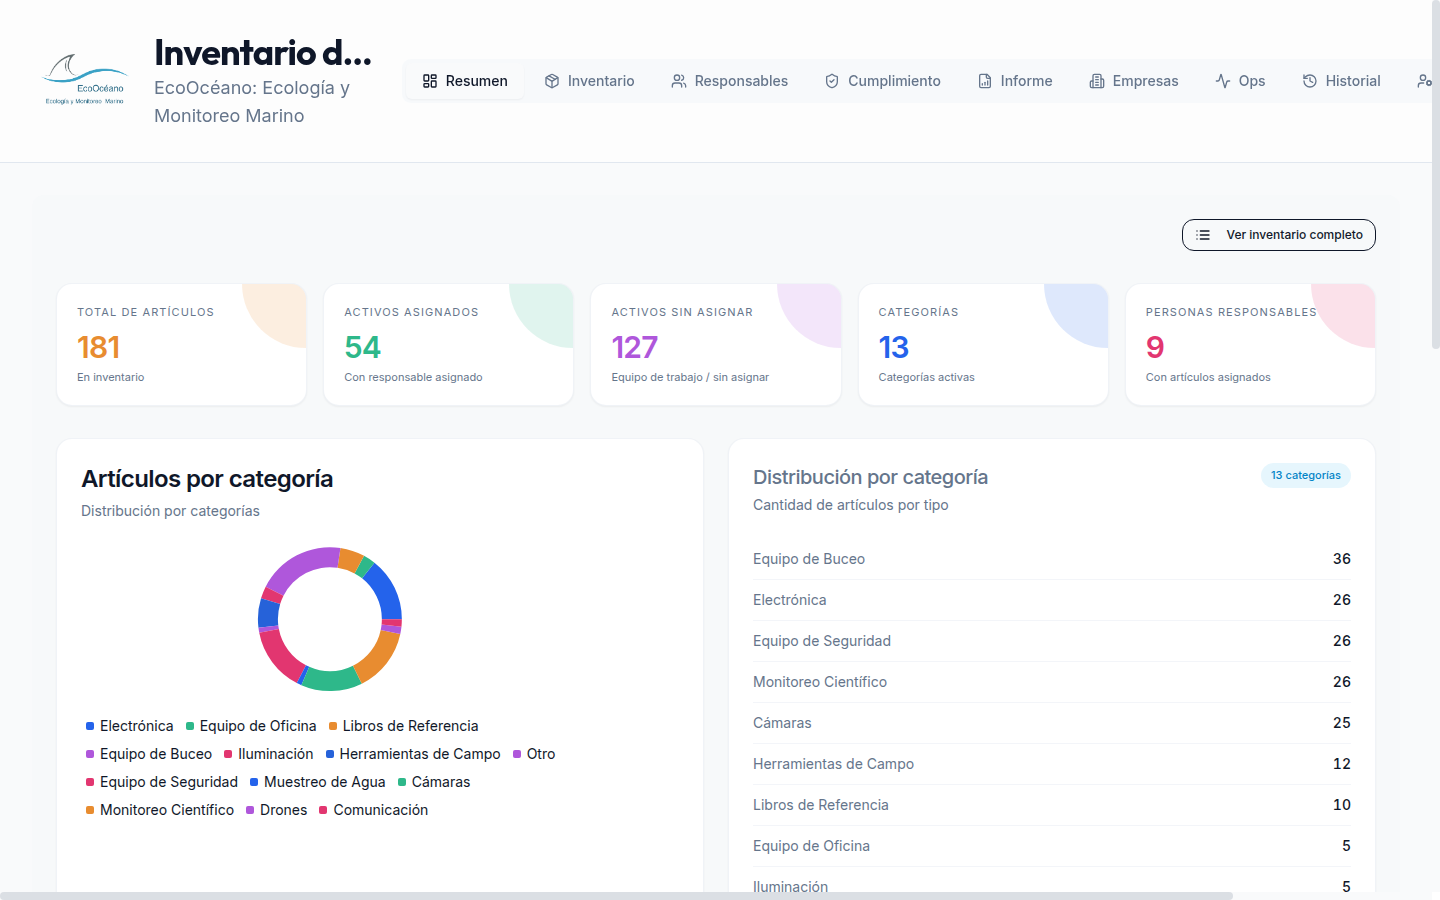
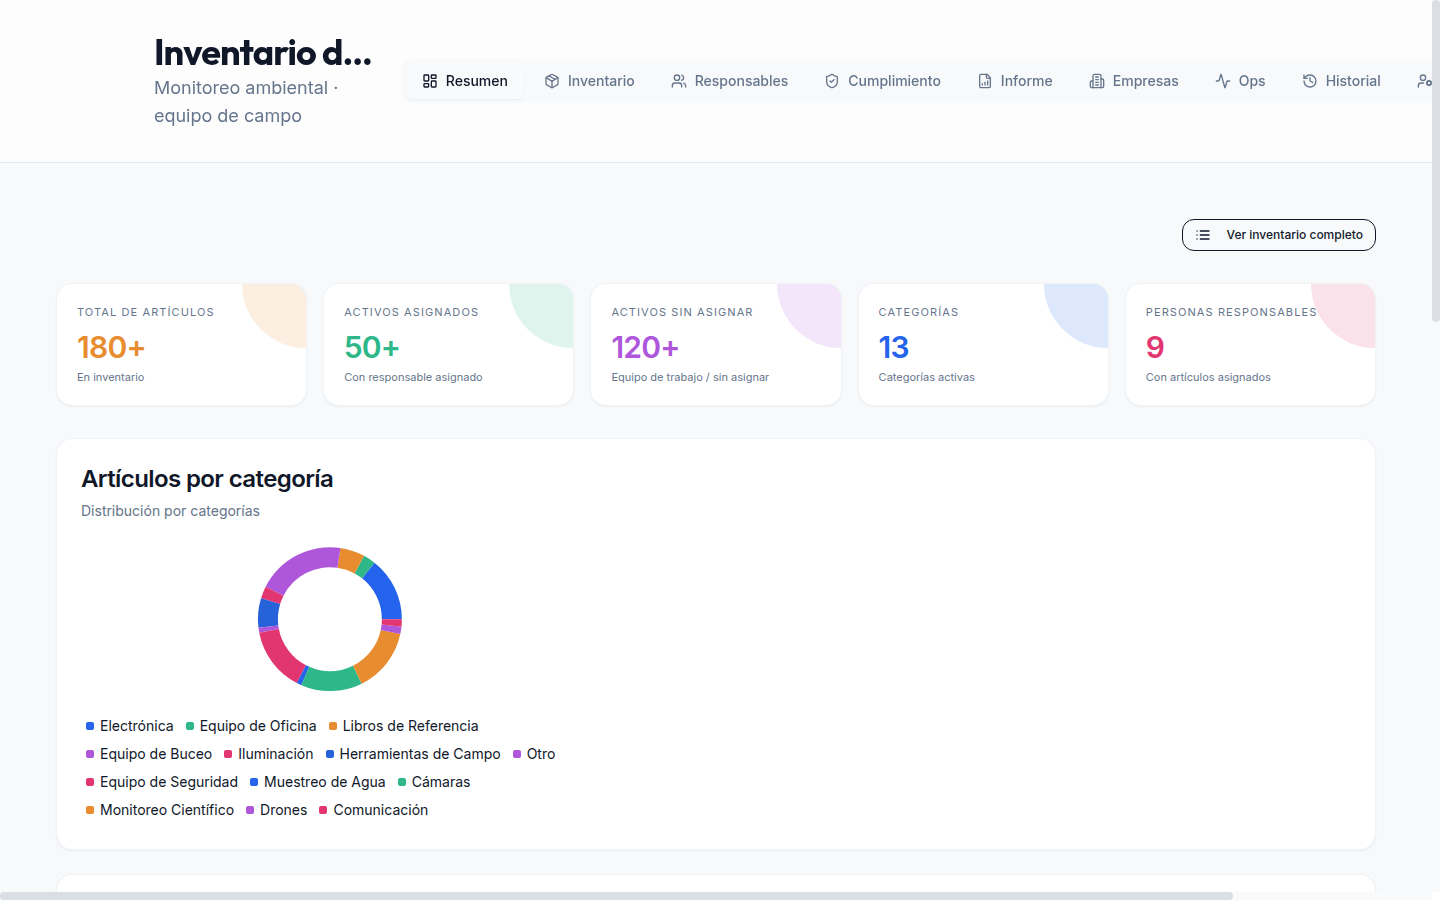
refactor: anonymise the inventory case study
Client is now 'marine monitoring company (under NDA)'. Removed the logo,
the company name in the app header, and the exact per-category counts;
headline figures rounded to 180+/50+/120+ and re-captured. Slug renamed
off the client name, and the repo link dropped.

Deliberately no redirect from the old slug — that URL carried the client
name, so letting it 404 is the point.

Claude-Session: https://claude.ai/code/session_01953jgaeK7FsswJ5fm3efUG

diff --git a/web/src/content/projects/en/inventario-lite.md b/web/src/content/projects/en/inventario-lite.md
@@ -1,11 +1,10 @@
 ---
 name: Inventario Lite
-client: EcoOcéano — Ecología y Monitoreo Marino
+client: Marine monitoring company (under NDA)
 year: 2026
-tagline: I was told to track 181 assets in a spreadsheet. I built software instead.
-summary: Asset tracking for a marine ecology and monitoring company — 181 items across 13 categories, assignment to responsible staff, compliance, reporting and full history.
+tagline: I was told to track the equipment in a spreadsheet. I built software instead.
+summary: Asset tracking for an environmental monitoring company — a few hundred items across a dozen categories, assigned to responsible staff, with compliance, reporting and full history.
 stack: ["React", "Vite", "TypeScript", "Express", "PostgreSQL", "Drizzle ORM", "Tailwind CSS"]
-repoUrl: https://github.com/Butrelo8/Inv.-Lite-A
 screenshot: ../../../assets/shots/inv.png
 featured: false
 order: 3
@@ -13,9 +12,9 @@ order: 3
 
 ## The problem
 
-EcoOcéano runs marine ecology and monitoring work: diving equipment, scientific instruments, cameras,
-drones, water sampling gear, safety equipment. Expensive things that leave the office, go in a boat,
-and come back — or don't.
+The company runs marine ecology and monitoring work: diving equipment, scientific instruments,
+cameras, drones, water sampling gear, safety equipment. Expensive things that leave the office, go
+in a boat, and come back — or don't.
 
 I was asked to keep track of it in a spreadsheet. A spreadsheet has no answer for the questions that
 actually matter: who has this right now, when did they take it, has it come back, and who had it the
@@ -23,9 +22,9 @@ last three times. One person edits it, everyone else works from a copy that is a
 
 ## What I built
 
-A dedicated asset system. 181 items across 13 categories — diving equipment, electronics, safety
-gear, scientific monitoring, cameras, field tools — each assignable to one of the responsible staff,
-so at any moment it's clear what is out and who has it.
+A dedicated asset system. A few hundred items across a dozen categories — diving equipment,
+electronics, safety gear, scientific monitoring, cameras, field tools — each assignable to a member
+of staff, so at any moment it's clear what is out and who has it.
 
 Beyond the inventory: compliance tracking, reporting, multi-company support, an operations view and a
 full history, so the record of an asset survives the person who last touched it.
@@ -37,3 +36,5 @@ React and Vite on the front, Express with PostgreSQL and Drizzle behind it.
 The equipment register moved from a file someone maintains by hand to a system that answers "who has
 the underwater camera" without asking anyone. Built for one company, and general enough to run for
 another.
+
+*Client name, branding and figures withheld. Screenshot shows rounded numbers.*

diff --git a/web/src/content/projects/es/inventario-lite.md b/web/src/content/projects/es/inventario-lite.md
@@ -1,11 +1,10 @@
 ---
 name: Inventario Lite
-client: EcoOcéano — Ecología y Monitoreo Marino
+client: Empresa de monitoreo marino (confidencial)
 year: 2026
-tagline: Me pidieron llevar 181 activos en una hoja de cálculo. Hice software.
-summary: Control de activos para una empresa de ecología y monitoreo marino — 181 artículos en 13 categorías, asignación por responsable, cumplimiento, informes e historial completo.
+tagline: Me pidieron llevar el control del equipo en una hoja de cálculo. Hice software.
+summary: Control de activos para una empresa de monitoreo ambiental — unos cientos de artículos en una docena de categorías, asignados por responsable, con cumplimiento, informes e historial completo.
 stack: ["React", "Vite", "TypeScript", "Express", "PostgreSQL", "Drizzle ORM", "Tailwind CSS"]
-repoUrl: https://github.com/Butrelo8/Inv.-Lite-A
 screenshot: ../../../assets/shots/inv.png
 featured: false
 order: 3
@@ -13,7 +12,7 @@ order: 3
 
 ## El problema
 
-EcoOcéano hace ecología y monitoreo marino: equipo de buceo, instrumentos científicos, cámaras,
+La empresa hace ecología y monitoreo marino: equipo de buceo, instrumentos científicos, cámaras,
 drones, muestreo de agua, equipo de seguridad. Cosas caras que salen de la oficina, se suben a una
 lancha y regresan. O no.
 
@@ -23,9 +22,9 @@ persona la edita y el resto trabaja sobre una copia que ya está mal.
 
 ## Qué construí
 
-Un sistema de activos. 181 artículos en 13 categorías —buceo, electrónica, seguridad, monitoreo
-científico, cámaras, herramientas de campo— cada uno asignable a un responsable, para que en
-cualquier momento se sepa qué está fuera y con quién.
+Un sistema de activos. Unos cientos de artículos en una docena de categorías —buceo, electrónica,
+seguridad, monitoreo científico, cámaras, herramientas de campo— cada uno asignable a un
+responsable, para que en cualquier momento se sepa qué está fuera y con quién.
 
 Además del inventario: cumplimiento, informes, soporte para varias empresas, una vista de operación e
 historial completo, para que el registro de un activo sobreviva a quien lo tocó al final.
@@ -37,3 +36,5 @@ React y Vite al frente, Express con PostgreSQL y Drizzle atrás.
 El registro de equipo pasó de un archivo que alguien mantiene a mano a un sistema que responde "quién
 tiene la cámara submarina" sin preguntarle a nadie. Hecho para una empresa, y lo bastante general
 para operar en otra.
+
+*Nombre del cliente, marca y cifras reservados. La captura muestra números redondeados.*
